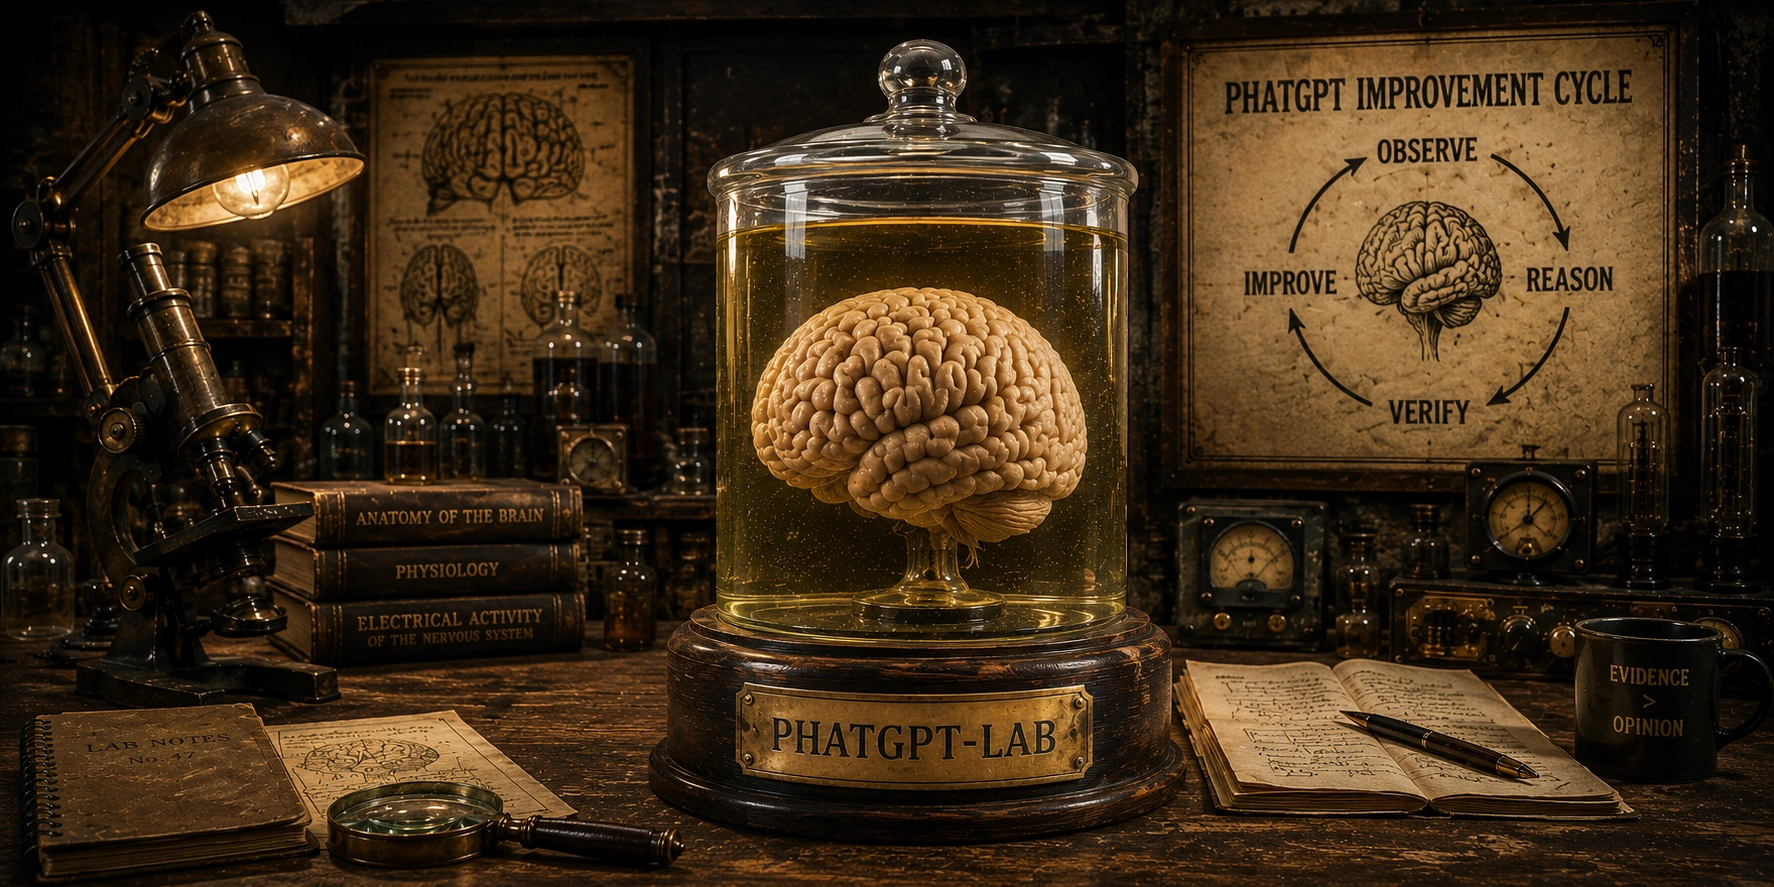
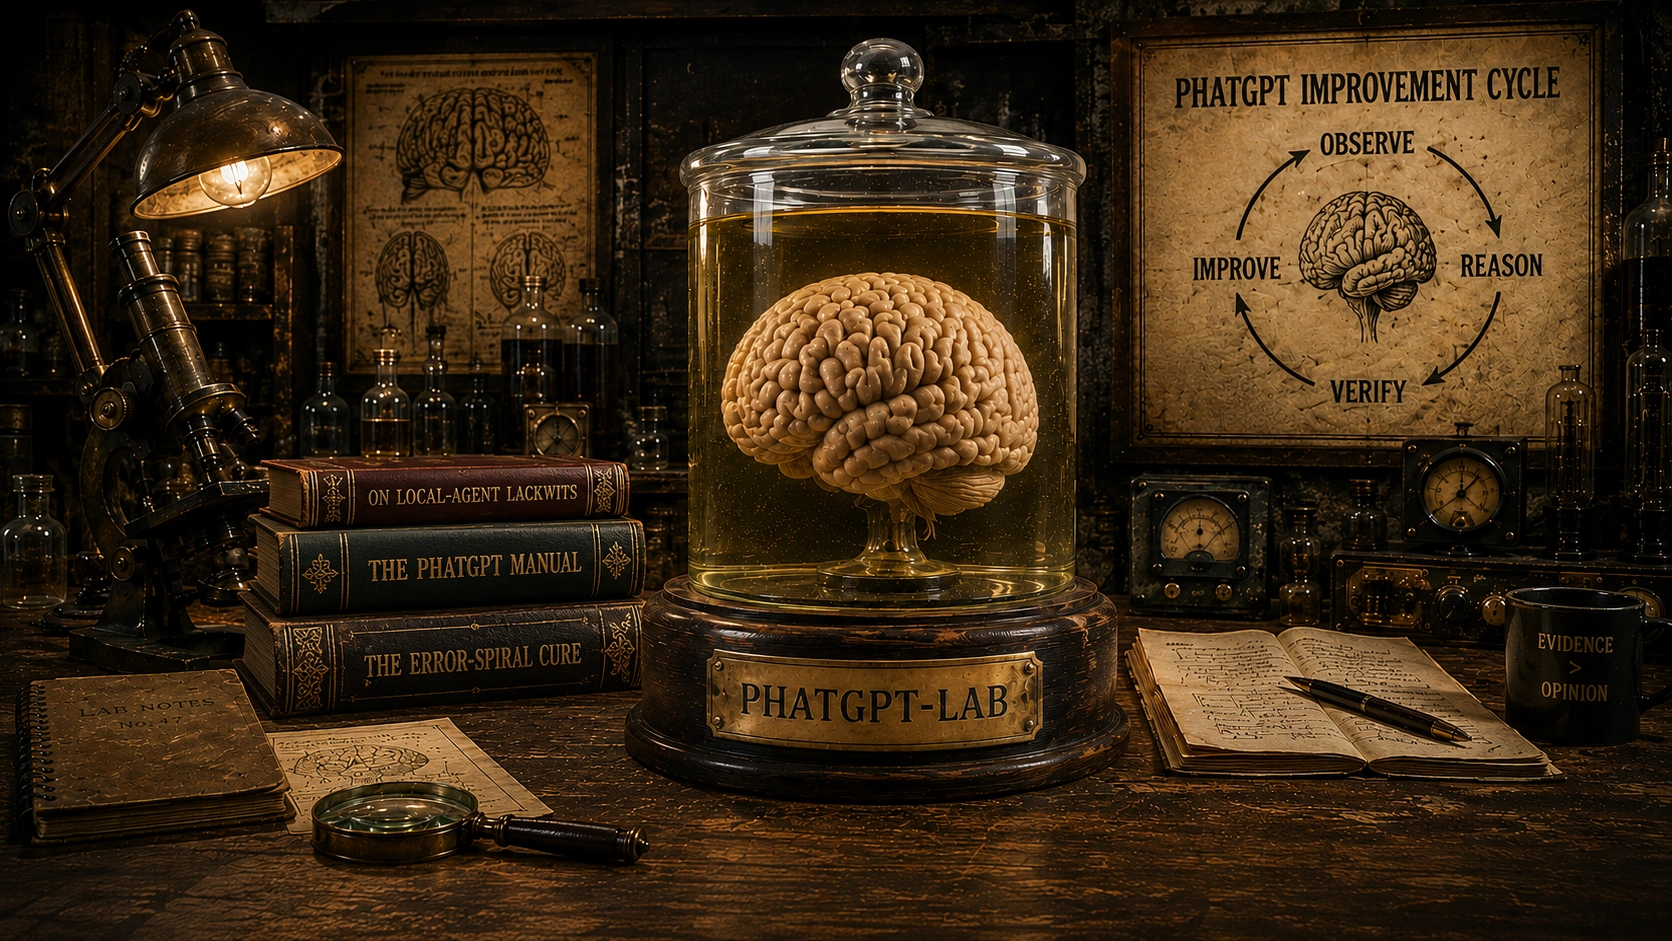
Use updated PhatGPT-LAB header image

diff --git a/assets/README.md b/assets/README.md
@@ -14,6 +14,6 @@
 
 The brain represents reasoning. The glass makes the reasoning inspectable rather than mystical. The walnut plinth and brass plaque turn the system into a durable laboratory instrument. The archival setting connects iteration to disciplined experimentation and recorded evidence.
 
-The repository copy is a Pillow-compressed 1774 × 887 WebP exported from the original generated PNG so the README keeps the full banner composition while loading faster than the source image.
+The repository copy is a Pillow-compressed 1672 × 941 WebP exported from the original generated PNG so the README keeps the full banner composition while loading faster than the source image.
 
 Do not replace the image with a generic AI gradient, glowing circuit brain, or unsupported dashboard artwork without recording a new design decision in `sources/control-plane/DECISIONS.md`.